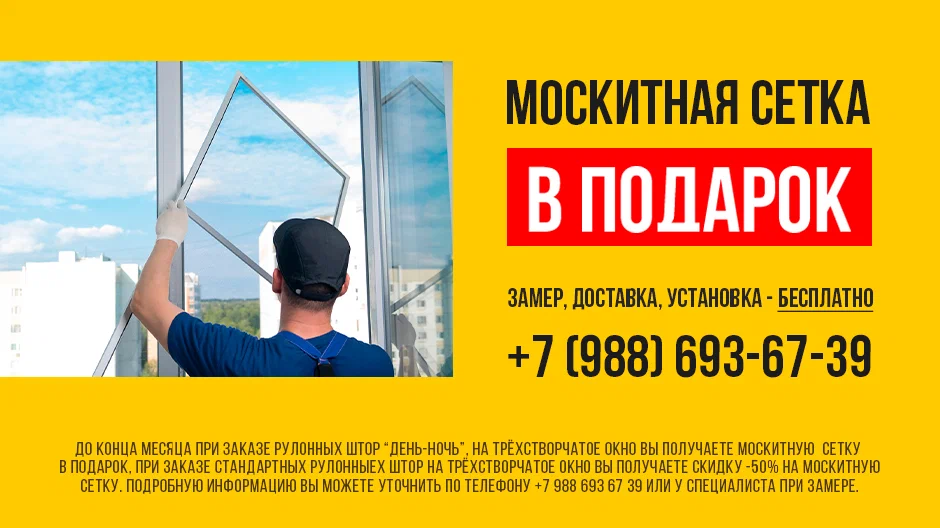
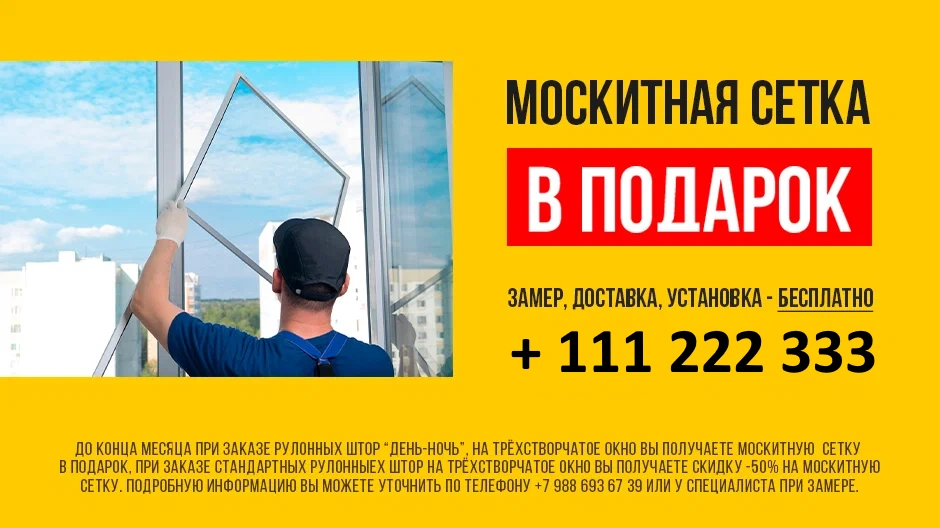
finish questions section

diff --git a/assets/css/style.min.css b/assets/css/style.min.css
@@ -1,2 +1,2 @@
-*{-webkit-box-sizing:border-box;box-sizing:border-box}a{text-decoration:none;display:inline-block}li,ul{list-style:none;margin:0;padding:0}.container{max-width:980px;margin:0 auto;padding:0 12px}body{outline:1px solid red;margin:auto;padding:0;font:20px Helvetica,Arial,sans-serif;max-width:1920px;line-height:28px;min-width:320px;color:#000}.header{background-image:url(../img/header-fon.webp);background-position:center}.header__box{text-align:center;min-height:649px;padding:128px 0}.header__title{background-color:rgba(255,204,0,.7);font-size:44px;line-height:1.2;font-weight:700;display:inline}.header__wrapper{margin:30px 0}.header__descr{color:#eee;font-size:24px;line-height:1.25;background-color:#f62626;display:inline;margin:30px 0}.header__adress{background-color:#fefefe;color:#151515;font-size:24px;line-height:1.25;font-weight:600;display:inline}.header__inner{margin-top:70px;display:-webkit-box;display:-ms-flexbox;display:flex;-webkit-box-pack:center;-ms-flex-pack:center;justify-content:center;gap:15px}.header__btn{font-size:20px;line-height:50px;color:#fff;background-color:#339e34;padding:0 15px;border-radius:3px;-webkit-transition:all .3s;-o-transition:all .3s;transition:all .3s}.header__btn:hover{color:#fff;background-color:#169018}.header__link{font-size:20px;line-height:50px;color:#000;padding:0 15px;background-color:#fc0;border-radius:3px;-webkit-transition:all .3s;-o-transition:all .3s;transition:all .3s}.header__link:hover{color:#000;background-color:#e4b805}.benefits{background-color:#e6e6e6;padding:56px 0}.benefits__title{font-size:36px;line-height:42px;text-align:center;margin-bottom:50px}.benefits__items{display:-ms-grid;display:grid;-ms-grid-columns:(1fr)[3];grid-template-columns:repeat(3,1fr);gap:30px}.benefits__item{background-color:#fff;display:-webkit-box;display:-ms-flexbox;display:flex;-webkit-box-orient:vertical;-webkit-box-direction:normal;-ms-flex-direction:column;flex-direction:column;gap:50px;-webkit-box-align:center;-ms-flex-align:center;align-items:center;padding:20px 15px;border-radius:5px}.benefits__img{width:40%}.benefits__img img{width:100%}.benefits__descr{text-align:center;padding:0 30px}.swiper{width:529px;height:529px}.swiper-slide img{width:100%}.rollerBlinds__title{font-size:36px;line-height:40px;padding:56px 0 16px;text-align:center}.rollerBlinds__priceM{font-size:16px;color:#000;text-align:center;padding-top:16px}.rollerBlinds__price{text-align:center;margin:0;padding:16px 0 56px}.rollerBlinds__price span:nth-child(1){font-size:24px;line-height:24px;font-weight:400;text-decoration:line-through}.rollerBlinds__price span:nth-child(2){font-size:24px;line-height:24px;font-weight:700}.rollerBlinds__price span:nth-child(3){padding:4px 11px 5px 15px;font-size:16px;line-height:16px;border-radius:12.5px;background:#2cb92c;color:#fff;vertical-align:middle;margin-left:14px}.curtainsDayNight{background-color:#f6f5f3}.curtainsDayNight__title{font-size:36px;line-height:40px;padding:56px 0 16px;text-align:center}.curtainsDayNight__priceM{font-size:16px;color:#000;text-align:center;padding-top:16px}.curtainsDayNight__price{text-align:center;margin:0;padding:16px 0 56px}.curtainsDayNight__price span:nth-child(1){font-size:24px;line-height:24px;font-weight:400;text-decoration:line-through}.curtainsDayNight__price span:nth-child(2){font-size:24px;line-height:24px;font-weight:700}.curtainsDayNight__price span:nth-child(3){padding:4px 11px 5px 15px;font-size:16px;line-height:16px;border-radius:12.5px;background:#2cb92c;color:#fff;vertical-align:middle;margin-left:14px}.horizontalBlinds__title{font-size:36px;line-height:40px;padding:56px 0 16px;text-align:center}.horizontalBlinds__priceM{font-size:16px;color:#000;text-align:center;padding-top:16px}.horizontalBlinds__price{text-align:center;margin:0;padding:16px 0 56px}.horizontalBlinds__price span:nth-child(1){font-size:24px;line-height:24px;font-weight:400;text-decoration:line-through}.horizontalBlinds__price span:nth-child(2){font-size:24px;line-height:24px;font-weight:700}.horizontalBlinds__price span:nth-child(3){padding:4px 11px 5px 15px;font-size:16px;line-height:16px;border-radius:12.5px;background:#2cb92c;color:#fff;vertical-align:middle;margin-left:14px}.blindsVertical{background-color:#f6f5f3}.blindsVertical__title{font-size:36px;line-height:40px;padding:56px 0 16px;text-align:center}.blindsVertical__priceM{font-size:16px;color:#000;text-align:center;padding-top:16px}.blindsVertical__price{text-align:center;margin:0;padding:16px 0 56px}.blindsVertical__price span:nth-child(1){font-size:24px;line-height:24px;font-weight:400;text-decoration:line-through}.blindsVertical__price span:nth-child(2){font-size:24px;line-height:24px;font-weight:700}.blindsVertical__price span:nth-child(3){padding:4px 11px 5px 15px;font-size:16px;line-height:16px;border-radius:12.5px;background:#2cb92c;color:#fff;vertical-align:middle;margin-left:14px}.stock__title{margin:0;font-size:36px;line-height:40px;padding:56px 0 16px;text-align:center}.stock__img{padding:56px 0}.stock__img img{width:100%}
[1 lines of base64/hex data omitted]
+*{-webkit-box-sizing:border-box;box-sizing:border-box}a{text-decoration:none;display:inline-block}li,ul{list-style:none;margin:0;padding:0}.container{max-width:980px;margin:0 auto;padding:0 12px}body{outline:1px solid red;margin:auto;padding:0;font:20px Helvetica,Arial,sans-serif;max-width:1920px;line-height:28px;min-width:320px;color:#000}.header{background-image:url(../img/header-fon.webp);background-position:center}.header__box{text-align:center;min-height:649px;padding:128px 0}.header__title{background-color:rgba(255,204,0,.7);font-size:44px;line-height:1.2;font-weight:700;display:inline}.header__wrapper{margin:30px 0}.header__descr{color:#eee;font-size:24px;line-height:1.25;background-color:#f62626;display:inline;margin:30px 0}.header__adress{background-color:#fefefe;color:#151515;font-size:24px;line-height:1.25;font-weight:600;display:inline}.header__inner{margin-top:70px;display:-webkit-box;display:-ms-flexbox;display:flex;-webkit-box-pack:center;-ms-flex-pack:center;justify-content:center;gap:15px}.header__btn{font-size:20px;line-height:50px;color:#fff;background-color:#339e34;padding:0 15px;border-radius:3px;-webkit-transition:all .3s;-o-transition:all .3s;transition:all .3s}.header__btn:hover{color:#fff;background-color:#169018}.header__link{font-size:20px;line-height:50px;color:#000;padding:0 15px;background-color:#fc0;border-radius:3px;-webkit-transition:all .3s;-o-transition:all .3s;transition:all .3s}.header__link:hover{color:#000;background-color:#e4b805}.benefits{background-color:#e6e6e6;padding:56px 0}.benefits__title{font-size:36px;line-height:42px;text-align:center;margin-bottom:50px}.benefits__items{display:-ms-grid;display:grid;-ms-grid-columns:(1fr)[3];grid-template-columns:repeat(3,1fr);gap:30px}.benefits__item{background-color:#fff;display:-webkit-box;display:-ms-flexbox;display:flex;-webkit-box-orient:vertical;-webkit-box-direction:normal;-ms-flex-direction:column;flex-direction:column;gap:50px;-webkit-box-align:center;-ms-flex-align:center;align-items:center;padding:20px 15px;border-radius:5px}.benefits__img{width:40%}.benefits__img img{width:100%}.benefits__descr{text-align:center;padding:0 30px}.swiper{width:529px;height:529px}.swiper-slide img{width:100%}.rollerBlinds__title{font-size:36px;line-height:40px;padding:56px 0 16px;text-align:center}.rollerBlinds__priceM{font-size:16px;color:#000;text-align:center;padding-top:16px}.rollerBlinds__price{text-align:center;margin:0;padding:16px 0 56px}.rollerBlinds__price span:nth-child(1){font-size:24px;line-height:24px;font-weight:400;text-decoration:line-through}.rollerBlinds__price span:nth-child(2){font-size:24px;line-height:24px;font-weight:700}.rollerBlinds__price span:nth-child(3){padding:4px 11px 5px 15px;font-size:16px;line-height:16px;border-radius:12.5px;background:#2cb92c;color:#fff;vertical-align:middle;margin-left:14px}.curtainsDayNight{background-color:#f6f5f3}.curtainsDayNight__title{font-size:36px;line-height:40px;padding:56px 0 16px;text-align:center}.curtainsDayNight__priceM{font-size:16px;color:#000;text-align:center;padding-top:16px}.curtainsDayNight__price{text-align:center;margin:0;padding:16px 0 56px}.curtainsDayNight__price span:nth-child(1){font-size:24px;line-height:24px;font-weight:400;text-decoration:line-through}.curtainsDayNight__price span:nth-child(2){font-size:24px;line-height:24px;font-weight:700}.curtainsDayNight__price span:nth-child(3){padding:4px 11px 5px 15px;font-size:16px;line-height:16px;border-radius:12.5px;background:#2cb92c;color:#fff;vertical-align:middle;margin-left:14px}.horizontalBlinds__title{font-size:36px;line-height:40px;padding:56px 0 16px;text-align:center}.horizontalBlinds__priceM{font-size:16px;color:#000;text-align:center;padding-top:16px}.horizontalBlinds__price{text-align:center;margin:0;padding:16px 0 56px}.horizontalBlinds__price span:nth-child(1){font-size:24px;line-height:24px;font-weight:400;text-decoration:line-through}.horizontalBlinds__price span:nth-child(2){font-size:24px;line-height:24px;font-weight:700}.horizontalBlinds__price span:nth-child(3){padding:4px 11px 5px 15px;font-size:16px;line-height:16px;border-radius:12.5px;background:#2cb92c;color:#fff;vertical-align:middle;margin-left:14px}.blindsVertical{background-color:#f6f5f3}.blindsVertical__title{font-size:36px;line-height:40px;padding:56px 0 16px;text-align:center}.blindsVertical__priceM{font-size:16px;color:#000;text-align:center;padding-top:16px}.blindsVertical__price{text-align:center;margin:0;padding:16px 0 56px}.blindsVertical__price span:nth-child(1){font-size:24px;line-height:24px;font-weight:400;text-decoration:line-through}.blindsVertical__price span:nth-child(2){font-size:24px;line-height:24px;font-weight:700}.blindsVertical__price span:nth-child(3){padding:4px 11px 5px 15px;font-size:16px;line-height:16px;border-radius:12.5px;background:#2cb92c;color:#fff;vertical-align:middle;margin-left:14px}.stock__title{margin:0;font-size:36px;line-height:40px;padding:56px 0 16px;text-align:center}.stock__img{padding:56px 0}.stock__img img{width:100%}.questions{background-color:#fc0}.questions__box{text-align:center;padding:56px 0 72px}.questions__title{font-size:36px;margin-bottom:30px}.questions__descr{font-size:36px;line-height:40px;font-weight:600;padding-bottom:16px;margin:0}.questions__btn{padding:0 15px;font-size:20px;line-height:50px;color:#fff;background-color:#339e34;margin:16px 0 32px;-webkit-transition:all .3s;-o-transition:all .3s;transition:all .3s}.questions__btn:hover{color:#fff;background-color:#0e9010}.questions__number{font-size:36px;line-height:40px;letter-spacing:2px}
[1 lines of base64/hex data omitted]

diff --git a/index.html b/index.html
@@ -249,6 +249,20 @@ $title = $text . ' ' . $city;
                 </div>
             </div>
         </section>
+        <section class="questions">
+            <div class="container-fluid">
+                <div class="row">
+                    <div class="col-12 container">
+                        <div class="questions__box">
+                            <h2 class="questions__title">Остались вопросы?</h2>
+                            <p class="questions__descr">Позвоните нам!</p>
+                            <a class="questions__btn" href="#">Позвонить</a>
+                            <div class="questions__number">+ 111 222 333</div>
+                        </div>
+                    </div>
+                </div>
+            </div>
+        </section>
     </main>
     <!--Нижний колонтитул страницы-->
     <footer class="footer">

diff --git a/app/scss/style.scss b/app/scss/style.scss
@@ -241,3 +241,40 @@ body{
         width: 100%;
     }
 }
+//questions
+.questions {
+    background-color: $primaryBgColor;
+}
+.questions__box {
+    text-align: center;
+    padding: 56px 0px 72px;
+}
+.questions__title {
+    font-size: 36px;
+    margin-bottom: 30px;
+}
+.questions__descr {
+    font-size: 36px;
+    line-height: 40px;
+    font-weight: 600;
+    padding-bottom: 16px;
+    margin: 0;
+}
+.questions__btn {
+    padding: 0 15px ;
+    font-size: 20px;
+    line-height: 50px;
+    color: #fff;
+    background-color: $primaryBtnColor;
+    margin: 16px 0 32px;
+    transition: all .3s;
+    &:hover {
+        color: #fff;
+        background-color: #0e9010;
+    }
+}
+.questions__number {
+    font-size: 36px;
+    line-height: 40px;
+    letter-spacing: 2px;
+}
